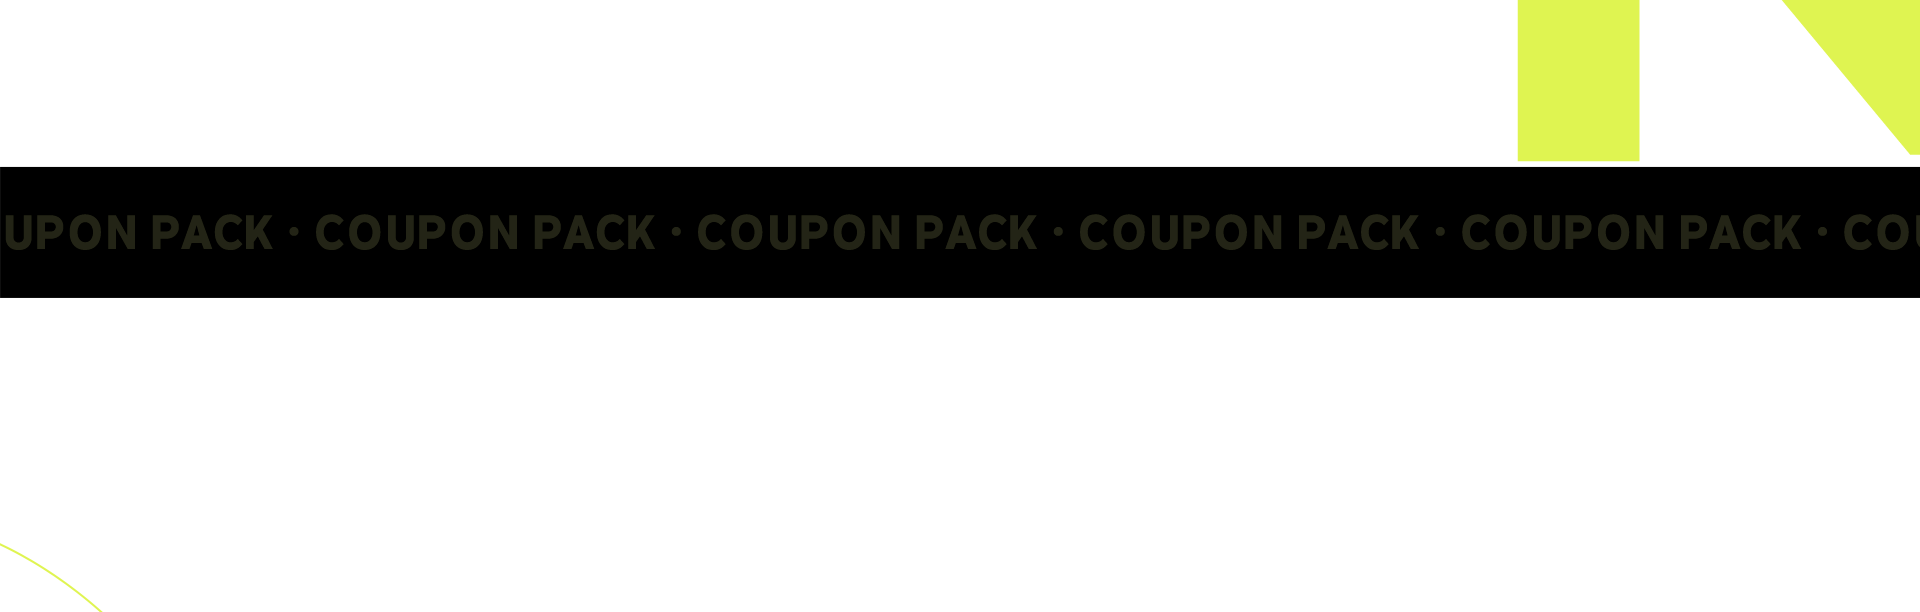
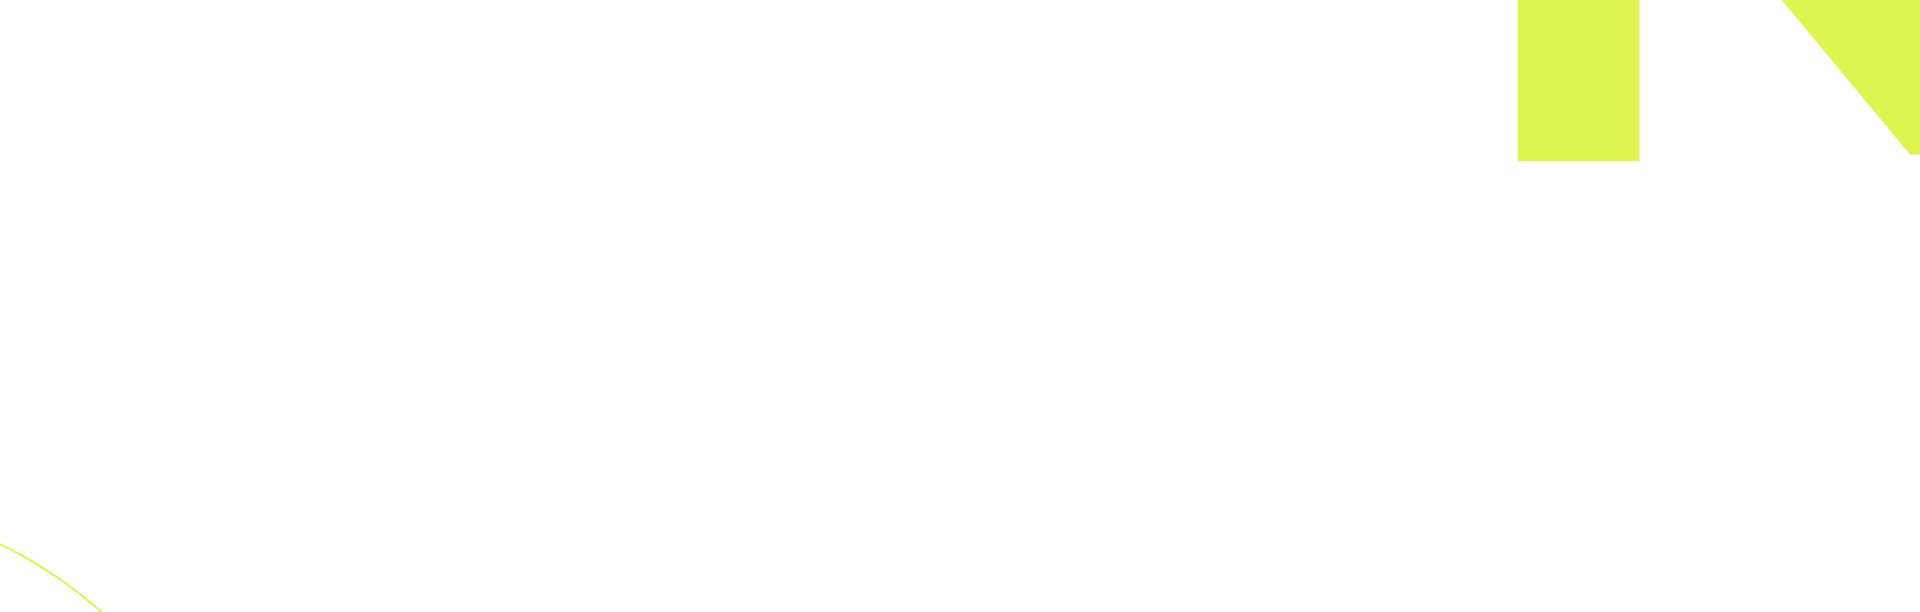
흐르는 텍스트 애니메이션

Changed region(s): [[0.0, 0.2484, 1.0, 0.4967]]

diff --git a/index.html b/index.html
@@ -19,7 +19,7 @@
 	<script src="https://cdnjs.cloudflare.com/ajax/libs/gsap/3.12.2/gsap.min.js" integrity="sha512-16esztaSRplJROstbIIdwX3N97V1+pZvV33ABoG1H2OyTttBxEGkTsoIVsiP1iaTtM8b3+hu2kB6pQ4Clr5yug==" crossorigin="anonymous" referrerpolicy="no-referrer"></script>
 	<script src="https://cdnjs.cloudflare.com/ajax/libs/ScrollMagic/2.0.8/ScrollMagic.min.js" integrity="sha512-8E3KZoPoZCD+1dgfqhPbejQBnQfBXe8FuwL4z/c8sTrgeDMFEnoyTlH3obB4/fV+6Sg0a0XF+L/6xS4Xx1fUEg==" crossorigin="anonymous" referrerpolicy="no-referrer"></script>
 	
-	<!-- SWIPER -->
+	<!-- SWIPER 라이브러리 -->
 	<link rel="stylesheet" href="https://cdn.jsdelivr.net/npm/swiper@11/swiper-bundle.min.css" />
 	<script src="https://cdn.jsdelivr.net/npm/swiper@11/swiper-bundle.min.js"></script>
 
@@ -56,6 +56,16 @@
 
 		<!-- 혜택 -->
 		<section class="content-01 bg--center scroll-spy">
+			<div class="scroll-text">
+				<div class="track">
+					<img src="./img/content-01-trackAni.png" alt="" />
+					<img src="./img/content-01-trackAni.png" alt="" />
+					<img src="./img/content-01-trackAni.png" alt="" />
+					<img src="./img/content-01-trackAni.png" alt="" />
+					<img src="./img/content-01-trackAni.png" alt="" />
+					<img src="./img/content-01-trackAni.png" alt="" />
+				</div>
+			</div>
 			<div class="inner">
 
 				<div class="content-01-title content-title back-to-position to-up"></div>
@@ -82,7 +92,6 @@
 						<div class="swiper-slide"><img src="./img/content-02-item-01.png" alt="" /></div>
 						<div class="swiper-slide"><img src="./img/content-02-item-02.png" alt="" /></div>
 						<div class="swiper-slide"><img src="./img/content-02-item-03.png" alt="" /></div>
-						</div>
 					</div>
 
 					<div class="swiper-pagination"></div>

diff --git a/css/main.css b/css/main.css
@@ -110,6 +110,29 @@
 .promotion .content-01 {
   height: 612px;
   background-image: url('../img/bg-content-01.png');
+  position: relative;
+}
+@keyframes scroll-animation {
+  0% {
+    left: 0;
+  }
+  100% {
+    left: -383px; /* 텍스트 width와 동일 */
+  }
+}
+.promotion .content-01 .scroll-text {
+  width: 100%;
+  height: 130px;
+  background-color: #000;
+  overflow: hidden;
+  position: absolute;
+  top: 170px;
+}
+.promotion .content-01 .scroll-text .track {
+  position: relative;
+  width: calc(383*6);
+  display: flex;
+  animation: scroll-animation 5s linear infinite;
 }
 .promotion .content-01-title {
   height: 84px;

diff --git a/css/small.css b/css/small.css
@@ -12,7 +12,7 @@
 
 /* VISUAL */
 .promotion .visual {
-  height: 470px;
+  height: 480px;
 }
 .promotion .visual__title img {
   width: 450px;
@@ -24,16 +24,22 @@
 }
 
 /* 혜택 content-01 */
+.promotion .content-01 {
+  height: 550px;
+}
+.promotion .content-01 .scroll-text {
+  top: 228px;
+}
 .promotion .content-01-coupon {
   display: block;
-  width: 100vw;
 }
 .promotion .content-01-coupon img{
   width: 80vw;
-  margin: 34px auto;
+  margin: 0 auto 20px;
 }
 .promotion .content-01-txt {
   width: 90vw;
+  margin: 0 auto;
 }
 
 /* 이런 셀러라면? content-02 */
